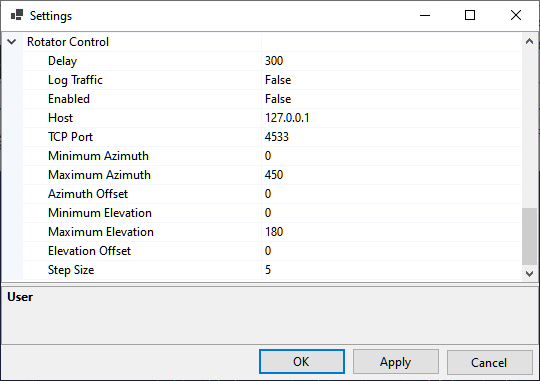
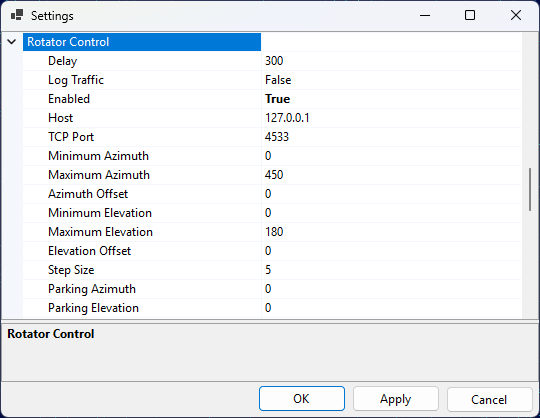
release v.1.27

Changed region(s): [[0.0, 0.0, 1.0, 0.8084], [0.0, 0.895, 1.0, 1.0]]

diff --git a/docs/download.md b/docs/download.md
@@ -4,7 +4,7 @@
 
 ### Current Version
 
-[SkyRoof v.1.26](https://github.com/VE3NEA/SkyRoof/releases/download/v.1.26/SkyRoofSetup-v.1.26.zip)
+[SkyRoof v.1.27](https://github.com/VE3NEA/SkyRoof/releases/download/v.1.27/SkyRoofSetup-v.1.27.zip)
 
 <br>
 
@@ -15,6 +15,15 @@ See [All Releases](https://github.com/VE3NEA/SkyRoof/releases)
 <br>
 
 ### Release Notes
+
+#### v.1.27
+
+- fixed decimal format in the rotator control command
+- mode set to MFSK for FT4 contacts in the ADIF file
+- squelch option save/restore fixed
+- updated satellite status retrieval to work with new AMSAT format
+- added antenna parting option
+- fixed error when selected transmitter is no longer in the database
 
 #### v.1.26
 

diff --git a/docs/users_guide/setting_up_rotator_control.md b/docs/users_guide/setting_up_rotator_control.md
@@ -50,7 +50,8 @@ Click on **Tools / Settings** in the main menu to open the
 - **Azimuth Offset**, **Elevation Offset** - if your rotator is not perfectly calibrated, these settings
     allow you to apply a correction;
 - **Step Size** - to prevent the rotator from starting and stopping too often, change the bearing
-    only when the required change is greater than the step size. The default value is 5 degrees.
+    only when the required change is greater than the step size. The default value is 5 degrees;
+- **Parking Azimuth**, **Parking Elevation** - specify the parking position for your antenna.
 
 <br>
 

diff --git a/docs/users_guide/rotator_control.md b/docs/users_guide/rotator_control.md
@@ -34,6 +34,9 @@ Click on the satellite position display to open the **Manual Rotator Control** w
 
 ![Manual Rotator Control](../images/manual_rotator_control.png)
 
+- click on **Go** to rotate the antenna to the specified azimuth and elevation;
+- click on **Park** to rotate the antenna to the parking position.
+
 ## Stopping
 
 To stop antenna rotation, either manual or due to the satellite tracking, click on the **Stop** button.

diff --git a/docs/index.md b/docs/index.md
@@ -4,13 +4,13 @@ _layout: landing
 
 <center>
 
-# SkyRoof v.1.26
+# SkyRoof v.1.27
 
 A Windows application for Hams and satellite enthusiasts
 
 **open source**
 
-_Copyright &copy; 2025 Alex Shovkoplyas, VE3NEA_
+_Copyright &copy; 2025 - 2026 Alex Shovkoplyas, VE3NEA_
 
 ![email](images/email_me.png)
 

diff --git a/docs/users_guide/pdf_cover.md b/docs/users_guide/pdf_cover.md
@@ -1,6 +1,6 @@
 <center>
 
-<h1>SkyRoof v.1.26</h1>
+<h1>SkyRoof v.1.27</h1>
 
 <h4>software for Hams and satellite enthusiasts</h4>
 
